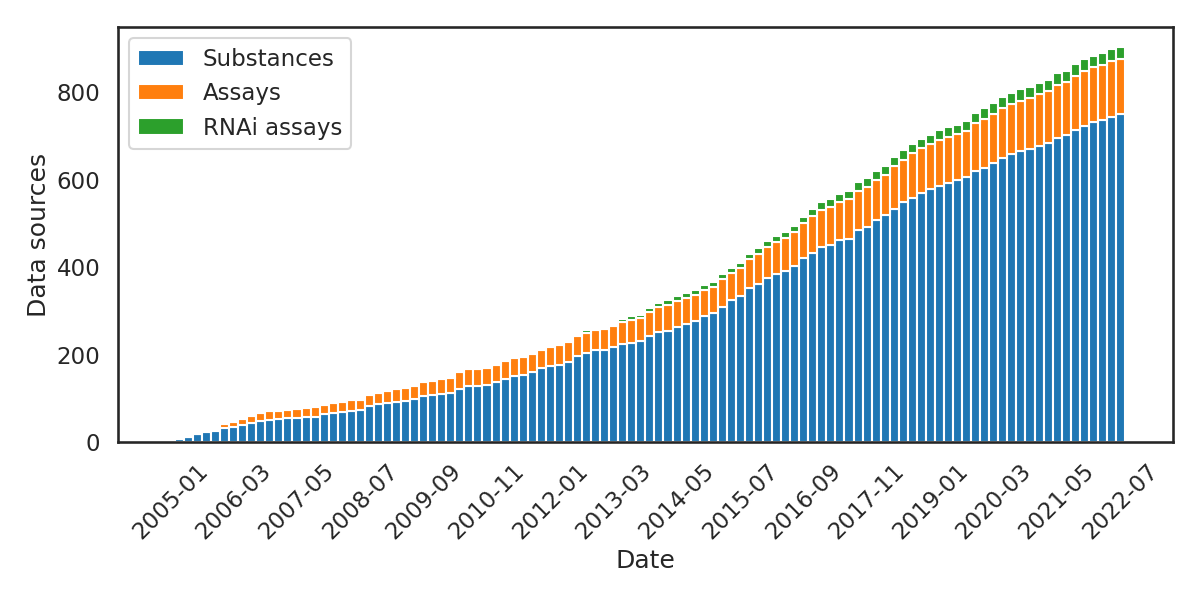
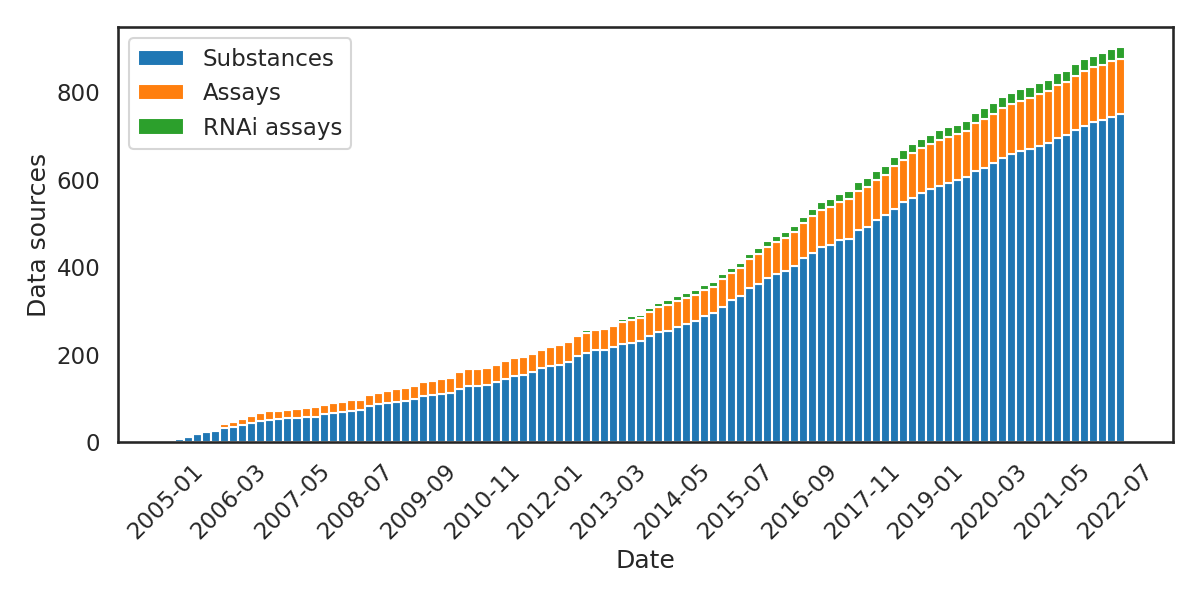
Added ChEMBL data and plot

Changed region(s): [[0.0925, 0.78, 0.9558, 0.9]]

diff --git a/plot-sources.py b/plot-sources.py
@@ -23,6 +23,25 @@ def load_pubchem_data(filename : str) -> Tuple[list, list]:
     
         return date, count
 
+def load_chembl_data(filename : str) -> Tuple[list, list]:
+    with open(filename, "r") as input_data:
+        # read entries; each entry is a separate line
+        raw_input = input_data.read().split("\n")
+    
+        # parse the date and separate it from the source count
+        version, date, compounds, activities, assays, targets, documents= [], [], [], [], [], [], []
+        for line in raw_input[1:]:  # skip first row (header)
+            split_line = line.split(", ")
+            version.append(split_line[0])
+            date.append(np.datetime64(split_line[1]))
+            compounds.append(int(split_line[2]))
+            activities.append(int(split_line[3]))
+            assays.append(int(split_line[4]))
+            targets.append(int(split_line[5]))
+            documents.append(int(split_line[6]))
+    
+        return version, date, compounds, activities, assays, targets, documents
+
 ## PubChem
 # load the PubChem data
 substance_dates, substance_sources   = load_pubchem_data(filename="./data/pubchem-substance-sources.csv")
@@ -32,9 +51,9 @@ RNAi_assay_dates, RNAi_assay_sources = load_pubchem_data(filename="./data/pubche
 # plot the PubChem data
 fig, ax = plt.subplots(1, 1, figsize=(12,6))
 x = np.arange(len(substance_dates))
-ax.bar(x=x[::2], height=substance_sources[::2], label=f"Substances", color=palette2[0], width=2)
-ax.bar(x=x[::2], height=assay_sources[::2], label=f"Assays", bottom=substance_sources[::2], color=palette2[1], width=2)
-ax.bar(x=x[::2], height=RNAi_assay_sources[::2], label=f"RNAi assays", bottom=(np.array(substance_sources[::2])+np.array(assay_sources[::2])), color=palette2[2], width=2)
+ax.bar(x=x[::2], height=substance_sources[::2], label=f"Substances", color=palette2[0], width=2, align="edge")
+ax.bar(x=x[::2], height=assay_sources[::2], label=f"Assays", bottom=substance_sources[::2], color=palette2[1], width=2, align="edge")
+ax.bar(x=x[::2], height=RNAi_assay_sources[::2], label=f"RNAi assays", bottom=(np.array(substance_sources[::2])+np.array(assay_sources[::2])), color=palette2[2], width=2, align="edge")
 ax.legend()
 ax.set(xlabel="Date",
        ylabel="Data sources",
@@ -44,6 +63,19 @@ fig.tight_layout()
 fig.savefig("pubchem-sources.png")
 
 ## ChEMBL
+# load the ChEMBL data
+chembl_versions, chembl_dates, chembl_compounds, chembl_activities, chembl_assays, chembl_targets, chembl_documents = load_chembl_data(filename="./data/chembl-documents.csv")
+# plot the PubChem data
+fig, ax = plt.subplots(1, 1, figsize=(12,6))
+x = np.arange(len(chembl_dates))
+ax.bar(x=x, height=chembl_documents, label=f"Documents", color=palette2[3], width=1, align="edge")
+ax.legend()
+ax.set(xlabel="Date",
+       ylabel="Documents",
+	   xticks=x[::2])
+ax.set_xticklabels(labels=chembl_dates[::2], rotation=45)
+fig.tight_layout()
+fig.savefig("chembl-documents.png")
 
 ## PDB
 
